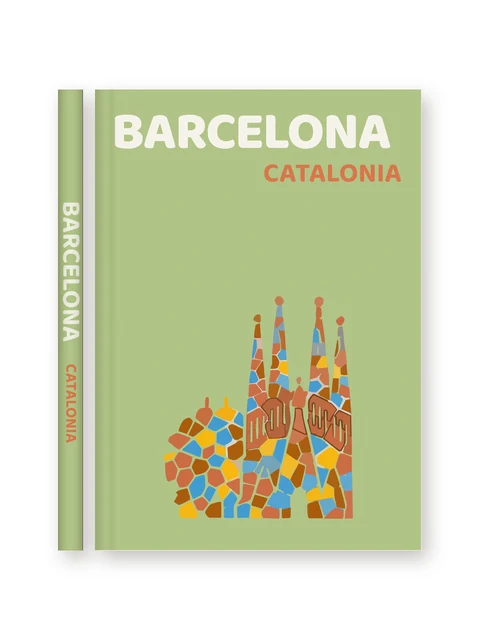
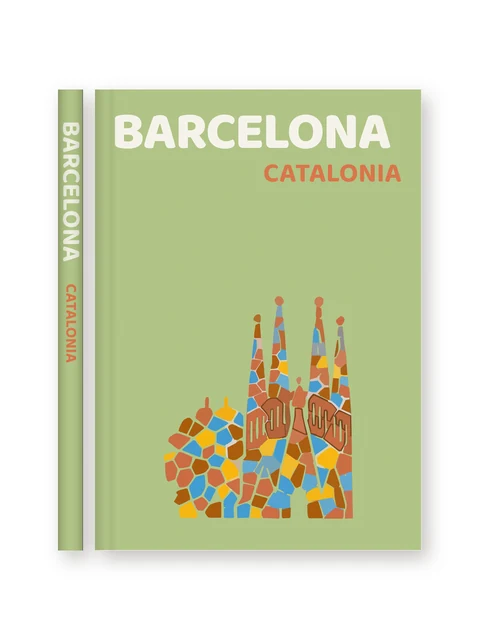
Travel spines keep their designed layout (no centring)
Travel templates show their spine as designed again, title at the top:
their theme says spineCentred: false, and CoverSpine (now given the
album's template id) leaves their elements in place. Other themes keep the
centred spine. Travel template pictures regenerated.

Claude-Session: https://claude.ai/code/session_019iW3qNmH4N4x87DfLWtU9k

Changed region(s): [[0.125, 0.1875, 0.1875, 0.6875]]

diff --git a/frontend/src/components/CoverSpine.jsx b/frontend/src/components/CoverSpine.jsx
@@ -1,7 +1,7 @@
 import React, { useRef, useState, useLayoutEffect, useEffect } from "react";
 import { DraggableItem } from "@/components/book/DraggableItem";
 import { measureDomTextWidth } from "@/components/book/textMeasure";
-import { spineLogoSource } from "@/lib/coverThemes";
+import { spineCentred, spineLogoSource } from "@/lib/coverThemes";
 import { spineArrangedByHand } from "@/lib/coverDefaults";
 
 /** Tracks an element's live pixel height via ResizeObserver. */
@@ -139,7 +139,7 @@ function useFitSpineFontSize({ containerHeight, maxFontPx, boxHeightFraction, ti
  * the cover they can be dragged, resized and restyled (font, size), and
  * the title can be hidden.
  */
-export function CoverSpine({ title, template, cover = {}, editable = false, selectedZone, onSelectTitle, onSelectSubtitle, onSelectCaption, onSelectLogo, onSelectDivider, onUpdateCover }) {
+export function CoverSpine({ title, templateId, template, cover = {}, editable = false, selectedZone, onSelectTitle, onSelectSubtitle, onSelectCaption, onSelectLogo, onSelectDivider, onUpdateCover }) {
   const containerRef = useRef(null);
   const containerHeight = useElementHeight(containerRef);
   const containerWidth = useElementWidth(containerRef);
@@ -467,11 +467,13 @@ export function CoverSpine({ title, template, cover = {}, editable = false, sele
   const groupTop = spans.length ? Math.min(...spans.map((s) => s[0])) : 0;
   const groupBottom = spans.length ? Math.max(...spans.map((s) => s[1])) : 1;
   const manual = spineArrangedByHand(cover);
-  const shift = manual || !containerHeight ? 0 : (1 - (groupBottom - groupTop)) / 2 - groupTop;
+  // Some themes keep their designed places (travel: title at the top).
+  const centred = !manual && spineCentred(templateId);
+  const shift = centred && containerHeight ? (1 - (groupBottom - groupTop)) / 2 - groupTop : 0;
   const shown = (item) => ({ ...item, y: item.y + shift });
   const updateSpine = (patch) => {
     if (!onUpdateCover) return;
-    if (manual) return onUpdateCover({ ...patch, spine_layout_manual: true });
+    if (!centred) return onUpdateCover(manual ? { ...patch, spine_layout_manual: true } : patch);
     onUpdateCover({
       spine_layout_manual: true,
       spine_title_y: titleItem.y + shift, spine_title_h: titleItem.h,

diff --git a/frontend/src/pages/PrintAlbum.jsx b/frontend/src/pages/PrintAlbum.jsx
@@ -200,7 +200,7 @@ export default function PrintAlbum() {
       {includeCover && !spread && (
         <div className="print-page cover-sheet" style={{ width: `${pw + spineMm + seamMm}mm`, height: `${ph}mm`, display: "flex" }}>
           <div style={{ width: `${spineMm}mm`, height: `${ph}mm`, flexShrink: 0 }}>
-            <CoverSpine title={album.title} template={template} cover={cover} editable={false} />
+            <CoverSpine title={album.title} templateId={album.cover_template_id} template={template} cover={cover} editable={false} />
           </div>
           <div style={{ width: `${seamMm}mm`, height: `${ph}mm`, flexShrink: 0, background: "rgba(26,26,23,0.7)" }} />
           <div style={{ width: `${pw}mm`, height: `${ph}mm` }}>
@@ -288,7 +288,7 @@ function CoverSpread({ layout, album, template, cover }) {
         />
       </div>
       <div style={box(layout.spine)}>
-        <CoverSpine title={album.title} template={template} cover={cover} editable={false} />
+        <CoverSpine title={album.title} templateId={album.cover_template_id} template={template} cover={cover} editable={false} />
       </div>
       <div style={box(layout.front)}>
         <CoverFrontPage

diff --git a/frontend/src/lib/coverThemes.test.js b/frontend/src/lib/coverThemes.test.js
@@ -1,5 +1,5 @@
 import { describe, expect, it } from "vitest";
-import { COVER_THEMES, spineLogoSource, templateFormat } from "@/lib/coverThemes";
+import { COVER_THEMES, spineCentred, spineLogoSource, templateFormat } from "@/lib/coverThemes";
 
 const templates = COVER_THEMES.flatMap((t) => t.templates);
 const logoOf = (id) => templates.find((t) => t.id === id).cover.spine_logo_image;
@@ -42,5 +42,13 @@ describe("templateFormat", () => {
     }
     expect(templateFormat("travel-sicily")).toBeNull();
     expect(templateFormat(null)).toBeNull();
+  });
+});
+
+describe("spineCentred", () => {
+  it("keeps travel spines as designed and centres the others", () => {
+    expect(spineCentred("travel-sicily")).toBe(false);
+    expect(spineCentred("family-dad")).toBe(true);
+    expect(spineCentred("default")).toBe(true);
   });
 });

diff --git a/frontend/src/lib/coverThemes.js b/frontend/src/lib/coverThemes.js
@@ -81,6 +81,8 @@ export const COVER_THEMES = [
   {
     id: "travel",
     label: "Travel",
+    // Spine title at the top, as designed, rather than centred (see CoverSpine).
+    spineCentred: false,
     templates: [
       {
         id: "travel-sicily",
@@ -543,6 +545,12 @@ export const COVER_THEMES = [
 export function templateFormat(templateId) {
   const theme = COVER_THEMES.find((th) => th.templates.some((t) => t.id === templateId));
   return theme?.format || null;
+}
+
+/** Whether a template's spine elements are shown centred in its height. */
+export function spineCentred(templateId) {
+  const theme = COVER_THEMES.find((th) => th.templates.some((t) => t.id === templateId));
+  return theme?.spineCentred ?? true;
 }
 
 export function findTemplate(templateId) {

diff --git a/frontend/src/components/editor/BookRenderer.jsx b/frontend/src/components/editor/BookRenderer.jsx
@@ -67,6 +67,7 @@ export function BookRenderer({
       >
         <CoverSpine
           title={album.title}
+          templateId={album.cover_template_id}
           template={template}
           cover={album.cover || {}}
           editable={!album.was_ordered}

diff --git a/frontend/src/pages/CreateAlbum.jsx b/frontend/src/pages/CreateAlbum.jsx
@@ -606,6 +606,7 @@ function StepEdit({
           />
           <CoverSpine
             title={album.title}
+            templateId={album.cover_template_id}
             template={template}
             cover={cover}
             editable
